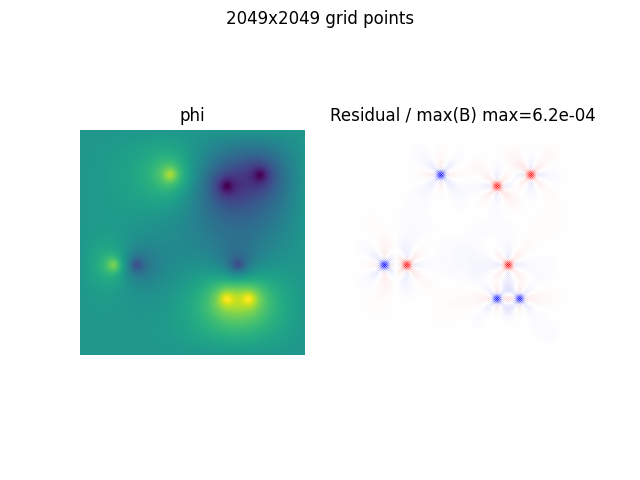
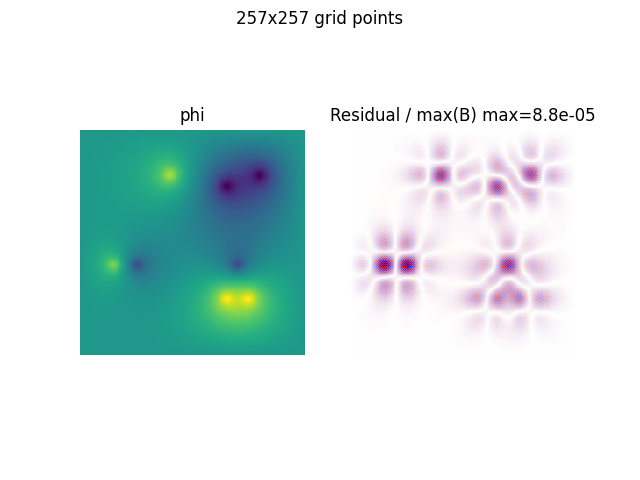
cleaning

diff --git a/parallel_multigrid.py b/parallel_multigrid.py
@@ -189,7 +189,6 @@ class Multigrid:
         self.ofst = offsets(self.bufs_x[0].rank, self.width_halo)
         print(f"hsb {self.h_sb}\nhwl {self.h_wl}")
 
-
     def solve(self):
         """
         Solve the Poisson equation by reapeating v cycles.
@@ -212,8 +211,8 @@ class Multigrid:
         r_wl = self.r_wl
         h_wl = self.h_wl
         h_sb = self.h_sb
-        n1 = 4
-        n2 = 4
+        n1 = 3
+        n2 = 5
         ofst = self.ofst
         n_para = self.n_para
         n = self.n
@@ -274,7 +273,9 @@ class Multigrid:
 
             err = np.amax(np.abs(self.r_sb[0]))
             if err > err_old:
-                print("Convergence compromised : r>r+1 ")
+                print("Convergence compromised : r>r+1 \n \
+                      Set n1 higher"
+                      )
                 fail = True
             err_old = err
 
@@ -292,19 +293,22 @@ class Multigrid:
 if __name__ == "__main__":
     comm = MPI.COMM_WORLD
     rank = comm.Get_rank()
-    n = 10
-    n_para = 7
+    n = 7
+    n_para = 3
     b_max = 50
     epsilon = b_max*0.0005
+
+    # Domain size
     nx1 = 2 ** n + 1
     nx0 = 2 ** (n + 1) + 1
     x = np.linspace(-10, 10, nx0)
     y = np.linspace(-10, 10, nx0)
+    # Step
     h = y[1] - y[0]
     X, Y = np.meshgrid(x, y)
 
+    # Right hand side
     r = (X) ** 2 + (Y) ** 2
-    # b0 = b_max*np.exp(-r/4)
     b0 = np.zeros_like(X)
     sign = 1
     xr = [ 4, -2,  6,  3,  3,  5, -5, -7]
@@ -314,31 +318,38 @@ if __name__ == "__main__":
         b0 += sign*b_max * np.exp(-r * 7)
         sign *= -1
 
+    # Attribute the subdomains to the processors
     b = np.zeros((nx1+1, nx1+1))
     split(b0, b, rank)
 
+    # a is the unknow
     a = np.zeros_like(b)
+    # R is the residual
     R = np.zeros_like(a)
 
+    # initialize the solver
     poisson = Multigrid(b, a, R, h, epsilon, n, n_para)
+    # solve
     t0 = perf_counter()
     err = poisson.solve()
     t1 = perf_counter()
 
+    # Test
     t = 0
-    it = 10
+    it = 20
     for i in range(it):
-        a[:] = 0
+        # a[:] = 0
         t0 = perf_counter()
         poisson.solve()
         t1 = perf_counter()
         t += t1-t0
 
+    # Print results
     m_err = comm.reduce(err, MPI.MAX, 0)
-    if rank==0:
+    if rank == 0:
         print(f"nx = {nx1}")
         print(f"n_para = {n_para}")
-        print(f"{m_err/b_max:.1e}")
+        print(f"{m_err/b_max=:.1e}")
         print(f"time multi 1  {t/(it*2**(n+1)-1):.3e} s/point")
         print(f"time multi 1  {t/it:.3e} s")
 
@@ -348,7 +359,7 @@ if __name__ == "__main__":
     # gather_blocks(comm, R, R_full)
     # residual(R_full, a_full, b0, h)
 
-    # if rank==2:
+    # if rank == 2:
     #     fig, ax = plt.subplots(1, 2)
     #     ax0, ax1 = ax
     #     ax0.pcolormesh(a_full)
@@ -363,5 +374,4 @@ if __name__ == "__main__":
     #     ax1.axis('off')
     #     # plt.colorbar(cm)
     #     plt.savefig("test.png")
-
     #     plt.show()
